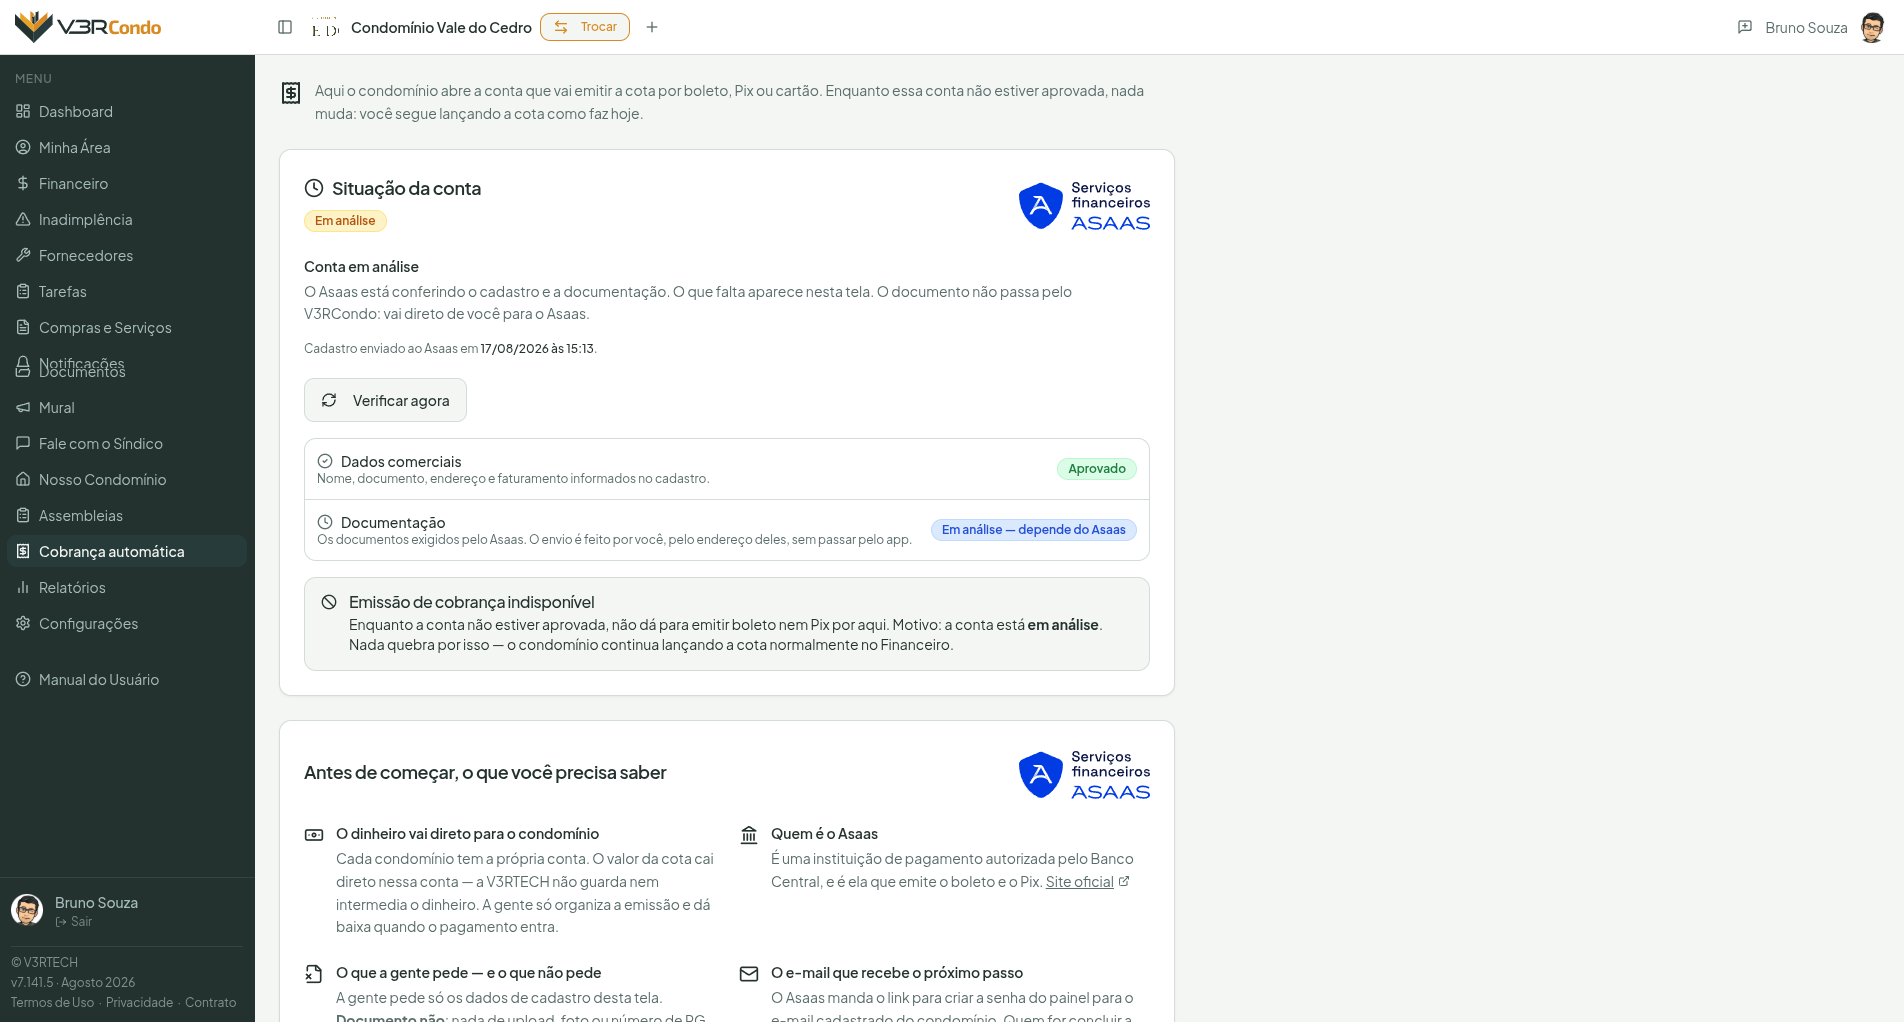
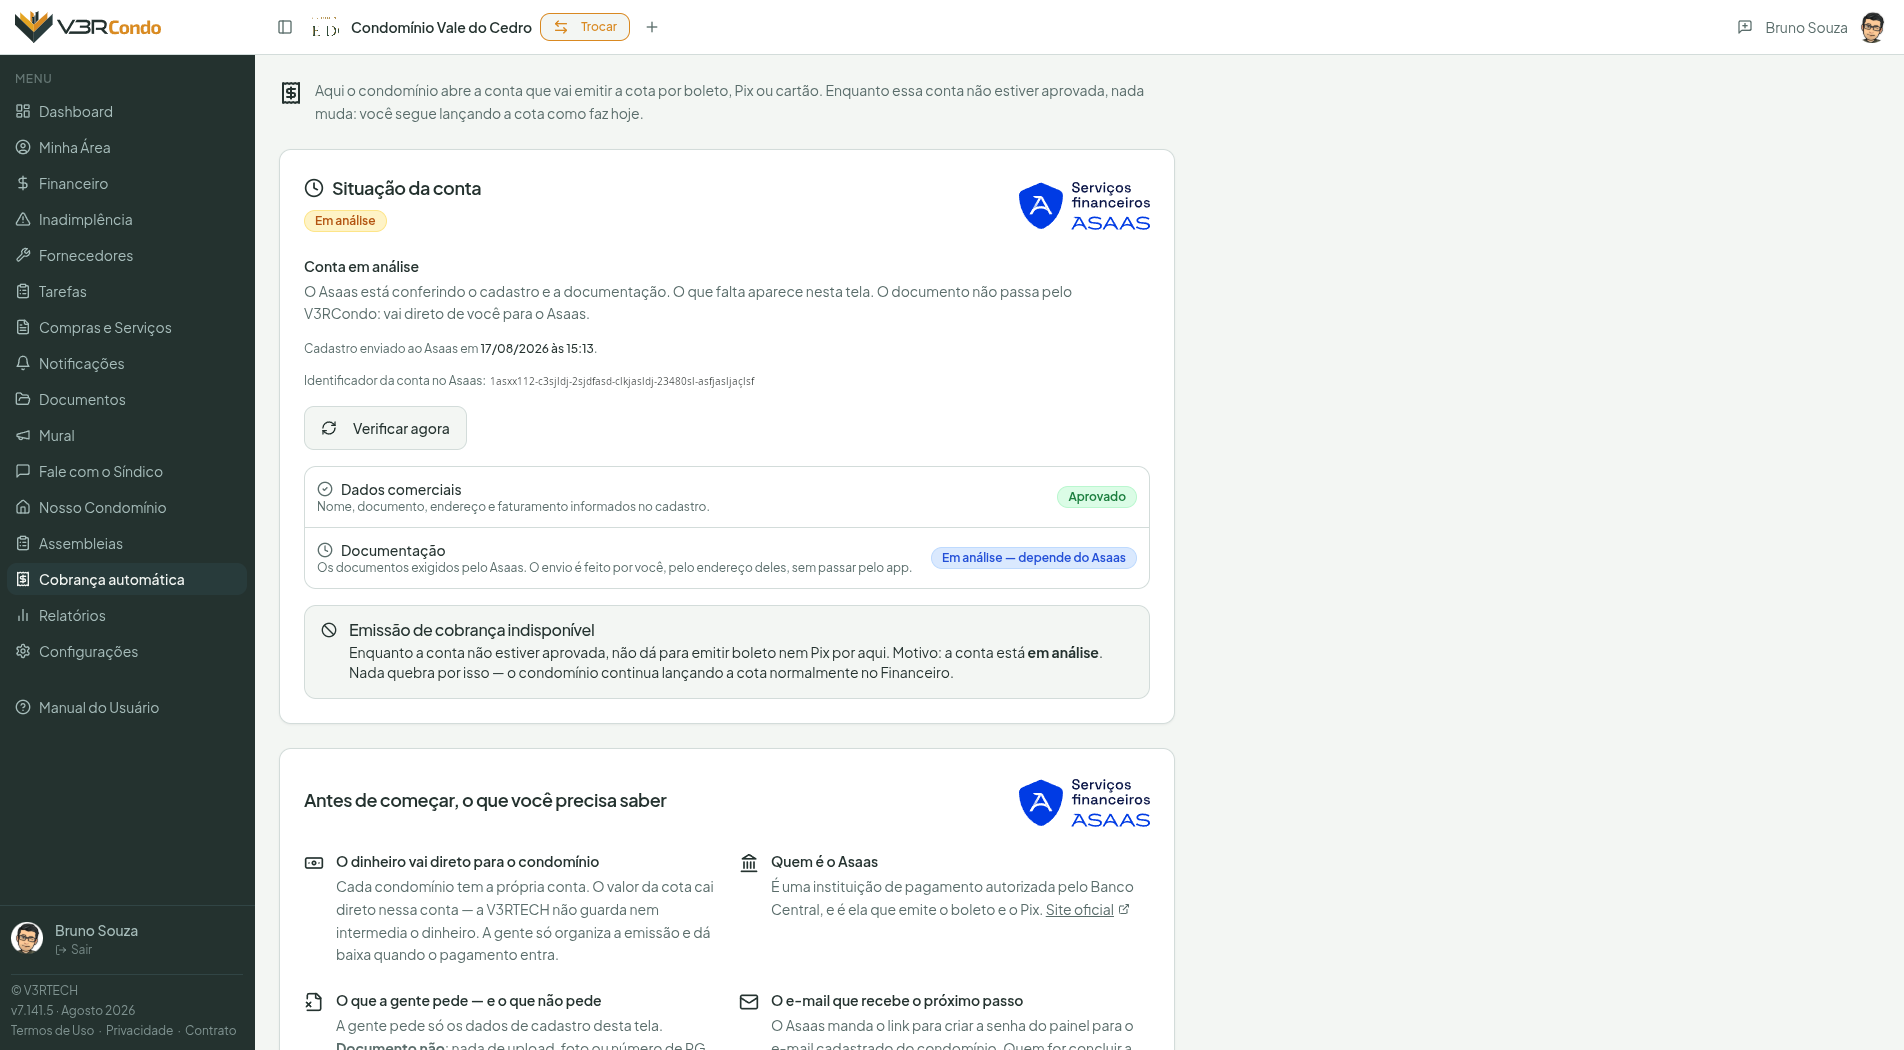
docs: captura da situacao da conta preserva o campo de identificador, com valor ficticio
Substitui a versao anterior, em que a linha do identificador havia sido
removida da imagem — mostrar o campo com valor ficticio e mais fiel a
tela que o sindico ve. Legenda declara que o identificador e ficticio.

diff --git a/modulos/cobranca-automatica.md b/modulos/cobranca-automatica.md
@@ -131,7 +131,7 @@ O cartão também mostra **desde quando o cadastro está com o Asaas** — a dat
 
 ![Cartão "Situação da conta" de uma conta em análise, com a data de envio do cadastro, os indicadores Dados comerciais e Documentação, e o botão Verificar agora](/assets/screenshots/cobranca-situacao-da-conta.png)
 
-*Exemplo de uma conta em análise: os dados comerciais já foram aprovados e a documentação está com o Asaas.*
+*Exemplo de uma conta em análise: os dados comerciais já foram aprovados e a documentação está com o Asaas. O identificador da conta exibido na imagem é fictício.*
 
 Cada indicador aparece como **Pendente**, **Em análise**, **Aprovado** ou **Reprovado**. Use o botão **Verificar agora** para consultar o Asaas e atualizar a situação na hora.
 
